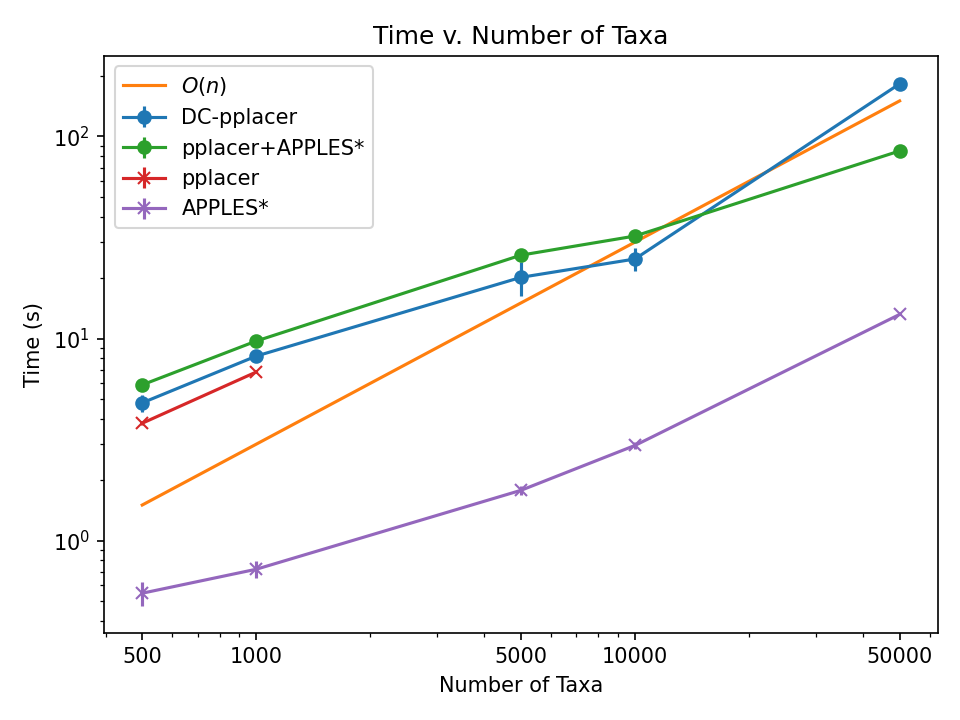
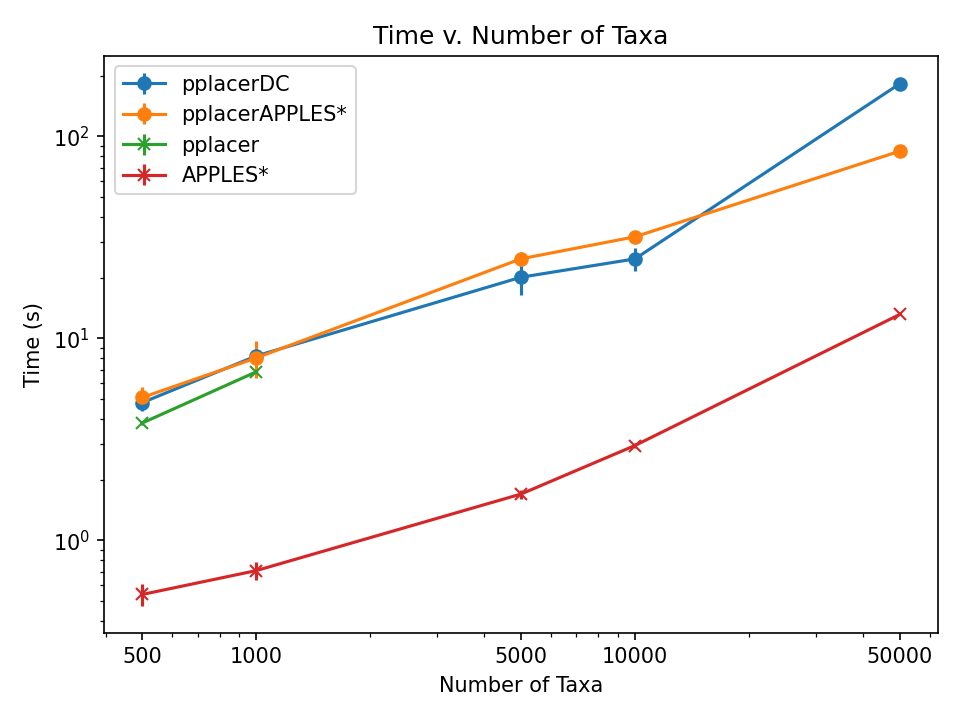
Minor changes to figure placement

diff --git a/writeup/project.tex b/writeup/project.tex
@@ -199,6 +199,12 @@ and the number of clades considered, $N_{clades}$.
 
 \section{Results and Discussion}
 
+\begin{wrapfigure}{l}{0.5\textwidth}
+\centering
+\includegraphics[width=0.5\textwidth]{Figs/varying-subproblem-size.png}
+\caption{Effect of changing the maximum pplacer size on the error for DCpplacer.}
+\label{fig:varying-size}
+\end{wrapfigure}
 In order to observe the effect of subproblem size and accuracy for pplacerDC,
 the maximum subproblem size is varied on the RNASim-VS-5000 leaf data set.
 Three of the 5 replicates with 100 query species per replicate are
@@ -210,11 +216,11 @@ This is an important consideration with respect to parallel computing,
 since allowing a smaller subproblem size allows
 for increased parallelism in running pplacerDC.
 
-\begin{wrapfigure}{l}{0.5\textwidth}
+\begin{wrapfigure}{r}{0.5\textwidth}
 \centering
-\includegraphics[width=0.5\textwidth]{Figs/varying-subproblem-size.png}
-\caption{Effect of changing the maximum pplacer size on the error for DCpplacer.}
-\label{fig:varying-size}
+\includegraphics[width=0.5\textwidth, height=0.5\textheight, keepaspectratio]{Figs/VS-timing-results-BW.png}
+\caption{Runtime on Blue Waters for 16 threads. Time is average time to place a single query sequence.}
+\label{fig:timing-results}
 \end{wrapfigure}
 
 Runtime results on 16 threads on Blue Waters are shown figure \ref{fig:timing-results}.
@@ -224,12 +230,6 @@ For the latter method, only a single clade is sampled.
 The graph indicates that all of the methods considered have linear time complexity with respect
 to the number of taxa in the input tree.
 
-\begin{wrapfigure}{r}{0.5\textwidth}
-\centering
-\includegraphics[width=0.5\textwidth, height=0.5\textheight, keepaspectratio]{Figs/VS-timing-results-BW.png}
-\caption{Runtime on Blue Waters for 16 threads. Time is average time to place a single query sequence.}
-\label{fig:timing-results}
-\end{wrapfigure}
 
 Delta error results for the RNASim-VS data sets
 are shown below in figures
@@ -237,8 +237,9 @@ are shown below in figures
 \ref{fig:error1000},
 \ref{fig:error5000},
 \ref{fig:error10000},
-and
 \ref{fig:error50000},
+and
+\ref{fig:error-all}.
 For both methods, a maximum subproblem size of 2,500 is used.
 For pplacerAPPLES*, only a single clade is sampled.
 The identical error rates for pplacer, pplacerDC, and pplacerAPPLES* in figures \ref{fig:error500} and \ref{fig:error1000}
@@ -282,29 +283,42 @@ The authors consider these concerns in the future work section.
 \caption{Delta Error for RNASim-VS with 1000 sequences}
 \label{fig:error1000}
 \end{subfigure}\\
+\caption{Delta errors for RNASim-VS dataset}
+\end{figure}
+\begin{figure}[!htb]
 \begin{subfigure}{0.5\textwidth}
 \centering
 \includegraphics[width=\textwidth]{Figs/VS-delta-error-5000-BW.png}
 \caption{Delta Error for RNASim-VS with 5000 sequences}
 \label{fig:error5000}
-\end{subfigure}\\
+\end{subfigure}
 \begin{subfigure}{0.5\textwidth}
 \centering
 \includegraphics[width=\textwidth]{Figs/VS-delta-error-10000-BW.png}
 \caption{Delta Error for RNASim-VS with 10,000 sequences}
 \label{fig:error10000}
 \end{subfigure}\\
+\caption{Delta errors for RNASim-VS dataset}
+\end{figure}
+\begin{figure}[!htb]
 \begin{subfigure}{0.5\textwidth}
 \centering
 \includegraphics[width=\textwidth]{Figs/VS-delta-error-50000.png}
 \caption{Delta Error for RNASim-VS with 50,000 sequences\footnote{Error results are from a different system, but this should have no impact on the accuracy, as all parameters were identical, and the timing results are all from Blue Waters.}}
 \label{fig:error50000}
 \end{subfigure}
+\begin{subfigure}{0.5\textwidth}
+\centering
+\includegraphics[width=\textwidth]{Figs/VS-delta-error-all-sizes.png}
+\caption{Aggregated delta error results for the RNASim-VS data set.}
+\label{fig:error-all}
+\end{subfigure}
+\caption{Delta errors for RNASim-VS dataset}
 \end{figure}
 
 \section{Conclusions}
 
-PplacerDC offers a scalable version of pplacer. It maintains the accuracy of pplacer, while scaling to large trees. Through the results here, we demonstrate that it can scale to trees of 10,000 sequences, and we expect it to scale to trees of 200,000 sequences and beyond.
+PplacerDC offers a scalable version of pplacer. It maintains the accuracy of pplacer, while scaling to large trees. Through the results here, we demonstrate that it can scale to trees of 50,000 sequences, and we expect it to scale to trees of 200,000 sequences and beyond.
 
 While the code is not currently open-sourced and freely available, a version of the code
 may be accessed with details in the appendix.
@@ -325,6 +339,8 @@ Currently, the centroid decomposition routine employed by pplacerDC creates disj
 decompositions of the input backbone tree.
 However, a decomposition scheme which contains some amount of overlap may be more robust to missing
 edges in the decomposed tree set.
+
+\pagebreak
 
 \bibliographystyle{ieee}
 \bibliography{cs581-project}

diff --git a/data/timing.py b/data/timing.py
@@ -34,15 +34,15 @@ fig = plt.figure()
 ax = plt.axes()
 ax.set_xscale("log")
 ax.set_yscale("log")
-ax.errorbar(sizes,avg_times,yerr=std_times, label="DC-pplacer", marker="o")
-ax.plot(sizes, sizes / (10 ** 4 / 30.), label="$O(n)$")
+ax.errorbar(sizes,avg_times,yerr=std_times, label="pplacerDC", marker="o")
+#ax.plot(sizes, sizes / (10 ** 4 / 30.), label="$O(n)$")
 ax.set_xlabel("Number of Taxa")
 ax.set_ylabel("Time (s)")
 ax.set_title("Time v. Number of Taxa")
 
 regex = "execution took (.+?) s"
 avg_times, std_times = get_time_by_regex("run_output2.log", regex, sizes)
-ax.errorbar(sizes,avg_times,yerr=std_times, label="pplacer+APPLES*", marker="o")
+ax.errorbar(sizes,avg_times,yerr=std_times, label="pplacerAPPLES*", marker="o")
 
 # Grab some pplacer timing data on 500, 1000 datasets
 pplacer_regex = "Running pplacer... took (.+?) s"

diff --git a/data/error_plots.py b/data/error_plots.py
@@ -67,9 +67,3 @@ def make_everything():
   plt.savefig(f"../writeup/Figs/VS-delta-error-all-sizes.png",dpi=150)
 make_everything()
 
-
-if 0:
-  plt.step(data[0], np.arange(data[0].size), label="DQ-pplacer")  # From 0 to the number of data points-1
-  plt.step(data[1], np.arange(data[1].size), label="pplacer")  # From 0 to the number of data points-1
-  plt.legend()
-  plt.show()
